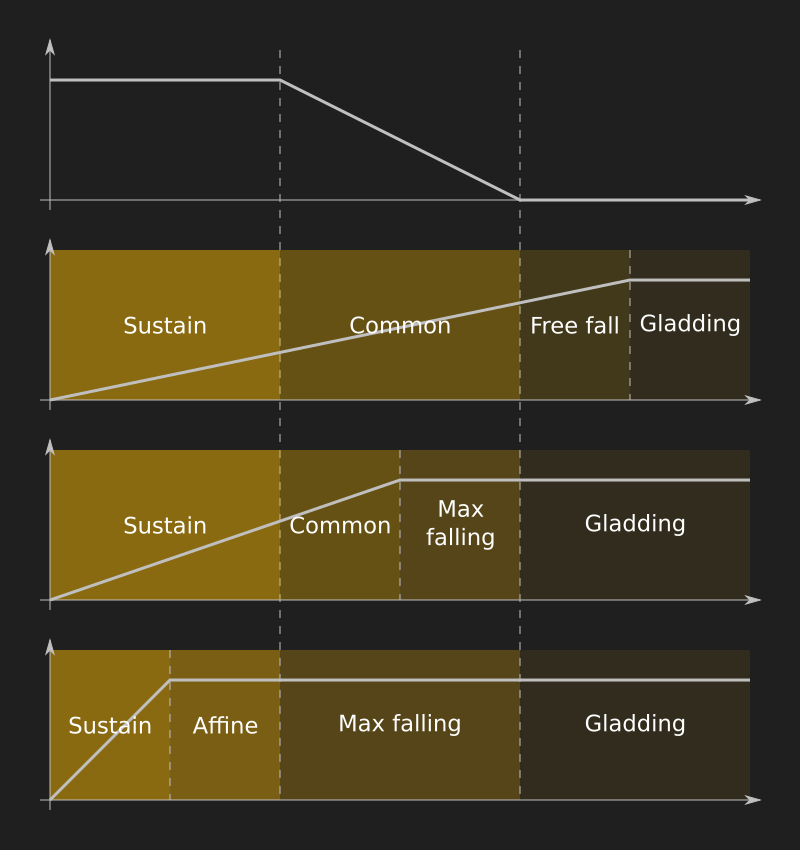
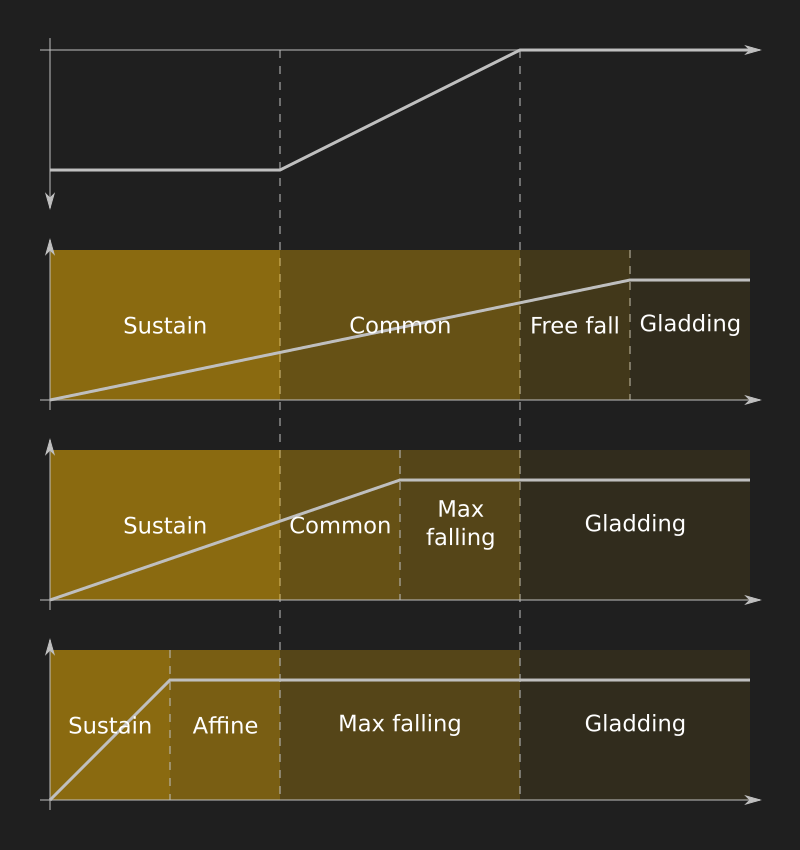
Add plotted trajectories.

diff --git a/Extensions/PlatformBehavior/README.md b/Extensions/PlatformBehavior/README.md
@@ -67,10 +67,11 @@ TODO introduce the configuration
 The model doesn't follow the laws of physics and this is because more realism doesn't mean more fun. Internally, it uses 2 independent speeds:
 - the jumping speed `jumpSpeed`
 - the falling speed `fallingSpeed`
+
 The jump speed stays at its initial value while the jump is sustained. Then, it decreases according to the gravity until it reaches 0 and stays that's way until the end.
 The falling speed starts at 0 and increase according to the gravity, as soon as the jump start, until it reaches the maximum falling speed and stay that's way until the end too.
 
-[![RequestedDeltaX](./diagrams/JumpSpeed.png)](./diagrams/JumpSpeed.svgz) [![RequestedDeltaX](./diagrams/FallingSpeed.png)](./diagrams/FallingSpeed.svgz)
+[![Jump speed](./diagrams/JumpSpeed.png)](./diagrams/JumpSpeed.svgz) [![Falling speed](./diagrams/FallingSpeed.png)](./diagrams/FallingSpeed.svgz)
 
 ### Requests solving and random access
 
@@ -86,6 +87,10 @@ The character trajectory during a jump looks like a quadratic function, but it's
 - when the jump speed becomes nul (jumpEndTime)
 
 TOTO plot some trajectories with pieces and full function to illustrate these cases.
+
+[![Trajectory with default settings](./diagrams/DefaultSettings.png)]
+
+[![Trajectory with an affine part](./diagrams/WithAffine.png)]
 
 Depending on the when the maximum falling speed is reached, there can be 3 piece-wise functions:
 - after the jump end
@@ -104,7 +109,7 @@ Depending on the when the maximum falling speed is reached, there can be 3 piece
   - max falling case
   - gladding case
 
-[![RequestedDeltaX](./diagrams/JumpCases.png)](./diagrams/JumpCases.svgz)
+[![Jump cases](./diagrams/JumpCases.png)](./diagrams/JumpCases.svgz)
 
 #### SageMath model
 
